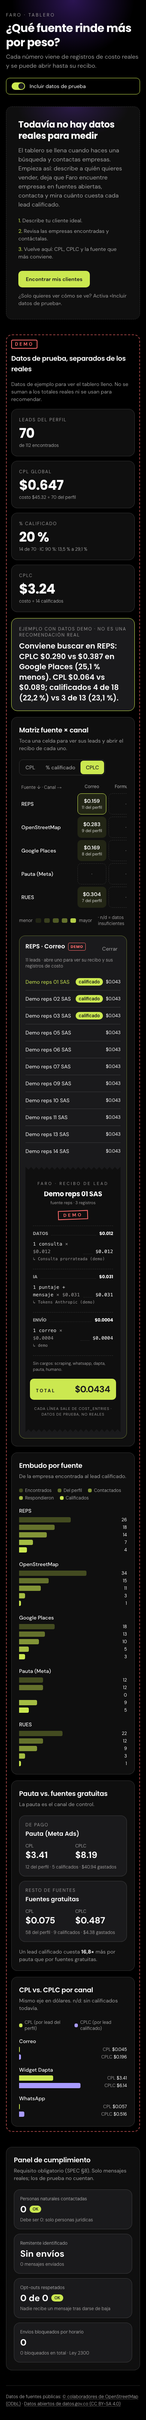
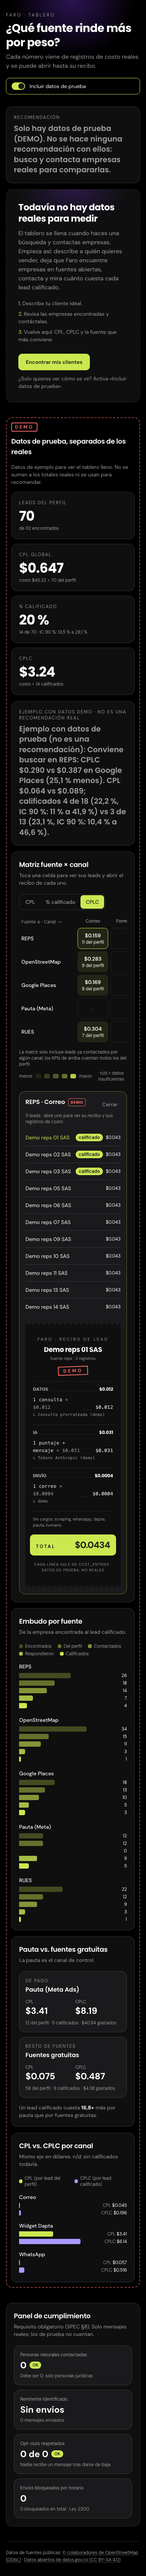
fix(F14): review r1 (real-only cell cost with stamped excluded, DEMO example sentence, min 3 qualified + intervals, batch receipts, a11y)

diff --git a/tests/unit/dashboard.test.ts b/tests/unit/dashboard.test.ts
@@ -1,10 +1,12 @@
 import { describe, expect, it } from "vitest";
 import { betaCredibleInterval } from "@/features/metrics/beta";
 import type { MetricsBucket, MetricsRow } from "@/features/metrics/channels";
+import { buildDemoExample } from "@/features/dashboard/recommendation";
 import { getCellLeads, getDashboardData } from "@/features/dashboard/data";
 import { getDemoDb } from "@/features/dashboard/demo-db";
 import { fmtInterval, fmtPct, fmtUsd } from "@/features/dashboard/format";
 import { buildRecommendation, splitPaidVsFree } from "@/features/dashboard/recommendation";
+import * as s from "@/db/schema";
 import { createTestDb } from "../helpers/test-db";
 
 function row(source: string, fit: number, qualified: number, costUsd: number): MetricsRow {
@@ -30,11 +32,12 @@ function bucket(rows: MetricsRow[]): MetricsBucket {
 
 describe("buildRecommendation", () => {
   it("names a clear winner with CPL/CPLC numbers", () => {
-    const r = buildRecommendation({ real: bucket([row("reps", 20, 5, 4), row("meta_ads", 10, 2, 40), row("osm", 15, 1, 6)]) });
+    const r = buildRecommendation({ real: bucket([row("reps", 20, 5, 4), row("meta_ads", 10, 3, 40), row("osm", 15, 3, 18)]) });
     expect(r.kind).toBe("winner");
     expect(r.sources).toEqual(["reps"]);
     expect(r.text).toContain("Conviene buscar en REPS");
     expect(r.text).toContain("CPLC $0.800 vs $6.00");
+    expect(r.text).toContain("IC 90 %");
   });
   it("reports a technical tie when CPLC is within 10 %", () => {
     const r = buildRecommendation({ real: bucket([row("reps", 20, 5, 4), row("rues", 20, 5, 4.2)]) });
@@ -42,7 +45,7 @@ describe("buildRecommendation", () => {
     expect(r.sources).toHaveLength(2);
   });
   it("says data is insufficient (no qualified, tiny samples, or empty)", () => {
-    for (const rows of [[], [row("reps", 3, 1, 1), row("rues", 2, 0, 1)], [row("reps", 20, 0, 4), row("rues", 20, 0, 4)], [row("reps", 20, 4, 4), row("rues", 20, 0, 4)]]) {
+    for (const rows of [[], [row("reps", 3, 1, 1), row("rues", 2, 0, 1)], [row("reps", 20, 0, 4), row("rues", 20, 0, 4)], [row("reps", 20, 4, 4), row("rues", 20, 0, 4)], [row("reps", 20, 2, 4), row("rues", 20, 2, 8)]]) {
       const r = buildRecommendation({ real: bucket(rows) });
       expect(r.kind).toBe("insufficient");
       expect(r.text).toMatch(/Datos insuficientes/);
@@ -111,5 +114,39 @@ describe("dashboard data", () => {
       expect(l.receipt!.totalUsd).toBeCloseTo(l.costUsd, 5);
     }
     expect((await getCellLeads(db, { source: "reps", contact: "email", demo: false })).total).toBe(0);
+  });
+  it("real cell list excludes mock/demo cost from costUsd and shows it apart", async () => {
+    const conn = await createTestDb();
+    try {
+      const db = conn.db as never as import("@/db/types").AppDb;
+      const [ws] = await db.insert(s.workspaces).values({ name: "W" }).returning();
+      const [icp] = await db.insert(s.icpProfiles).values({ workspaceId: ws.id, prompt: "x", threshold: 60 }).returning();
+      const [hunt] = await db.insert(s.hunts).values({ icpProfileId: icp.id }).returning();
+      const [co] = await db.insert(s.companies).values({ name: "Real SAS", normalizedName: "real" }).returning();
+      const [lead] = await db.insert(s.leads).values({ companyId: co.id, huntId: hunt.id, primarySource: "reps", slug: "real-1", fitScore: 80 }).returning();
+      await db.insert(s.messages).values({ leadId: lead.id, contactChannel: "email", body: "x", status: "sent", sentAt: new Date() });
+      const base = { leadId: lead.id, sourceChannel: "reps" as const, category: "ai" as const, quantity: 1, unit: "u" };
+      await db.insert(s.costEntries).values([
+        { ...base, rate: 0.1, usd: 0.1 },
+        { ...base, rate: 0.05, usd: 0.05, isMock: true },
+      ]);
+      const { leads } = await getCellLeads(db, { source: "reps", contact: "email", demo: false });
+      expect(leads).toHaveLength(1);
+      expect(leads[0].costUsd).toBeCloseTo(0.1, 6);
+      expect(leads[0].excludedUsd).toBeCloseTo(0.05, 6);
+      const m = await getDashboardData(db);
+      expect(m.real.cells[0].costUsd).toBeCloseTo(leads[0].costUsd, 6);
+    } finally {
+      await conn.close();
+    }
+  });
+  it("DEMO section sentence is an explicit example, never a real-format recommendation", async () => {
+    const d = (await getDashboardData(await getDemoDb(), { includeDemo: true })).demo!;
+    const ex = buildDemoExample(d);
+    expect(ex.kind).toBe("demo_example");
+    expect(ex.sources).toEqual([]);
+    expect(ex.text.startsWith("Ejemplo con datos de prueba")).toBe(true);
+    expect(buildRecommendation({ real: d }).kind).toBe("winner"); // same numbers as real would recommend...
+    expect(ex.text).not.toBe(buildRecommendation({ real: d }).text); // ...but never rendered in the real format
   });
 });

diff --git a/src/features/dashboard/data.ts b/src/features/dashboard/data.ts
@@ -1,7 +1,7 @@
 import { sql } from "drizzle-orm";
 import type { AppDb } from "@/db/types";
 import { LEAD_FACTS, getChannelMetrics, type MetricsBucket } from "@/features/metrics/channels";
-import { getLeadReceipt, type LeadReceipt } from "@/features/metrics/receipt";
+import { getLeadReceipts, type LeadReceipt } from "@/features/metrics/receipt";
 import { queryComplianceMetrics, type ComplianceMetrics } from "@/features/compliance/metrics";
 import { getDemoDb } from "./demo-db";
 
@@ -13,21 +13,14 @@ export interface DashboardData {
   compliance: ComplianceMetrics;
 }
 
-const hasData = (b: MetricsBucket | null) => !!b && (b.totals.found > 0 || b.totals.costUsd > 0);
-
 /**
- * The persistent DB may hold seeded demo rows; if it has none, the demo bucket comes from an
- * ephemeral in-memory dataset so the dashboard can be shown full without writing anything.
+ * The DEMO bucket always comes from the built-in in-memory dataset (nothing is written, and rows seeded
+ * in the persistent DB never change what the demo section shows). `real` only reads the persistent DB.
  */
-export async function resolveDemoDb(db: AppDb, persistentDemo: MetricsBucket | null): Promise<AppDb> {
-  return hasData(persistentDemo) ? db : getDemoDb();
-}
-
 export async function getDashboardData(db: AppDb, opts: { includeDemo?: boolean } = {}): Promise<DashboardData> {
-  const m = await getChannelMetrics(db, { includeDemo: !!opts.includeDemo });
-  let demo = m.demo;
-  if (opts.includeDemo && !hasData(demo)) demo = (await getChannelMetrics(await getDemoDb(), { includeDemo: true })).demo;
-  return { real: m.real, demo: opts.includeDemo ? demo : null, compliance: await queryComplianceMetrics(db) };
+  const real = (await getChannelMetrics(db)).real;
+  const demo = opts.includeDemo ? (await getChannelMetrics(await getDemoDb(), { includeDemo: true })).demo : null;
+  return { real, demo, compliance: await queryComplianceMetrics(db) };
 }
 
 export interface CellLead {
@@ -38,7 +31,10 @@ export interface CellLead {
   contacted: boolean;
   responded: boolean;
   qualified: boolean;
+  /** Real world: only non-mock, non-demo entries (matches the cell number). */
   costUsd: number;
+  /** Mock/demo cost on this lead, excluded from `costUsd` and shown apart with a stamp. */
+  excludedUsd: number;
   receipt: LeadReceipt | null;
 }
 
@@ -49,12 +45,15 @@ export async function getCellLeads(db: AppDb, p: { source: string; contact: stri
   const res = (await db.execute(
     sql`${sql.raw(LEAD_FACTS)}
 select lf.id as "leadId", c.name, l.slug, lf.fit, lf.contacted, lf.responded, lf.qualified,
-  (select coalesce(sum(e.usd), 0) from cost_entries e where e.lead_id = lf.id)::float8 as "costUsd"
+  (select coalesce(sum(e.usd) filter (where ${p.demo}::boolean or not (e.is_mock or e.is_demo)), 0) from cost_entries e where e.lead_id = lf.id)::float8 as "costUsd",
+  (select coalesce(sum(e.usd) filter (where not ${p.demo}::boolean and (e.is_mock or e.is_demo)), 0) from cost_entries e where e.lead_id = lf.id)::float8 as "excludedUsd"
 from lf join leads l on l.id = lf.id join companies c on c.id = l.company_id
 where lf.src = ${p.source} and lf.demo = ${p.demo} and (${p.contact}::text is null or lf.ch = ${p.contact})
 order by lf.qualified desc, lf.fit desc, c.name`,
   )) as unknown as Omit<CellLead, "receipt">[] | { rows: Omit<CellLead, "receipt">[] };
   const all = Array.isArray(res) ? res : res.rows;
-  const leads = await Promise.all(all.slice(0, CELL_LIMIT).map(async (r) => ({ ...r, receipt: await getLeadReceipt(db, r.leadId) })));
+  const shown = all.slice(0, CELL_LIMIT);
+  const receipts = await getLeadReceipts(db, shown.map((r) => r.leadId));
+  const leads = shown.map((r) => ({ ...r, receipt: receipts.get(r.leadId) ?? null }));
   return { total: all.length, leads };
 }

diff --git a/src/components/dashboard/matrix-panel.tsx b/src/components/dashboard/matrix-panel.tsx
@@ -27,7 +27,7 @@ const STEPS = [
 function value(r: MetricsRow, m: Metric): number | null {
   if (m === "cpl") return r.cpl;
   if (m === "cplc") return r.cplc;
-  return r.fit > 0 ? r.qualified / r.fit : null;
+  return r.qualifiedRate.n > 0 ? r.qualifiedRate.k / r.qualifiedRate.n : null;
 }
 
 interface Sel {
@@ -86,7 +86,7 @@ export function MatrixPanel({ bucket, demo }: { bucket: MetricsBucket; demo: boo
         ))}
       </div>
 
-      <div className="overflow-x-auto" tabIndex={0} aria-label="Matriz fuente por canal de contacto">
+      <div className="overflow-x-auto" role="region" tabIndex={0} aria-label="Matriz fuente por canal de contacto">
         <table className="w-full min-w-[560px] border-separate border-spacing-1.5 text-sm">
           <thead>
             <tr>
@@ -132,7 +132,7 @@ export function MatrixPanel({ bucket, demo }: { bucket: MetricsBucket; demo: boo
                         style={st ? { background: st.bg, color: st.fg } : undefined}
                       >
                         <span className="font-semibold tabular-nums">{text}</span>
-                        <span className="text-[11px] opacity-80">{c.fit} del perfil</span>
+                        <span className="text-xs">{c.fit} del perfil</span>
                       </button>
                     </td>
                   );
@@ -143,7 +143,8 @@ export function MatrixPanel({ bucket, demo }: { bucket: MetricsBucket; demo: boo
         </table>
       </div>
 
-      <div className="mt-3 flex items-center gap-2 text-xs text-faro-text-3" aria-hidden>
+      <p className="mt-3 text-xs text-faro-text-2">La matriz solo incluye leads ya contactados por algún canal; los KPIs de arriba cuentan todos los del perfil.</p>
+      <div className="mt-2 flex items-center gap-2 text-xs text-faro-text-3" aria-hidden>
         <span>menor</span>
         {STEPS.map((s, i) => (
           <span key={i} className="h-3 w-7 rounded-sm" style={{ background: s.bg }} />
@@ -183,6 +184,11 @@ export function MatrixPanel({ bucket, demo }: { bucket: MetricsBucket; demo: boo
                       <span className="flex shrink-0 items-center gap-2 text-xs text-faro-text-2">
                         {l.qualified && <span className="rounded-full bg-faro-accent px-2 py-0.5 font-semibold text-[#1a1a1c]">calificado</span>}
                         {!l.fit && <span>fuera del perfil</span>}
+                        {l.excludedUsd > 0 && (
+                          <span className="rounded border border-destructive px-1 text-[10px] font-bold tracking-wider text-destructive" title="Costo mock/demo excluido de la celda">
+                            MOCK {fmtUsd(l.excludedUsd)}
+                          </span>
+                        )}
                         <span className="tabular-nums text-white">{fmtUsd(l.costUsd)}</span>
                       </span>
                     </button>

diff --git a/src/features/dashboard/recommendation.ts b/src/features/dashboard/recommendation.ts
@@ -1,13 +1,13 @@
 import type { ChannelMetrics, MetricsBucket, MetricsRow } from "@/features/metrics/channels";
-import { fmtInt, fmtPct, fmtUsd, sourceLabel } from "./format";
+import { fmtInt, fmtInterval, fmtPct, fmtUsd, sourceLabel } from "./format";
 
 /** Minimum sample per source to be comparable: profile leads and qualified leads. */
 export const MIN_FIT = 5;
-export const MIN_QUALIFIED = 1;
+export const MIN_QUALIFIED = 3;
 /** CPLC gap (relative to the best) under which two sources are a technical tie. */
 export const TIE_GAP = 0.1;
 
-export type RecommendationKind = "winner" | "tie" | "insufficient" | "demo_only";
+export type RecommendationKind = "winner" | "tie" | "insufficient" | "demo_only" | "demo_example";
 
 export interface Recommendation {
   kind: RecommendationKind;
@@ -48,7 +48,7 @@ export function buildRecommendation(metrics: Pick<ChannelMetrics, "real"> & { de
   const bestC = best.cplc as number;
   const secondC = second.cplc as number;
   const gap = (secondC - bestC) / secondC; // how much cheaper the best is vs the runner-up
-  const rate = (r: MetricsRow) => `${r.qualified} de ${r.fit} (${fmtPct(r.qualified / r.fit)})`;
+  const rate = (r: MetricsRow) => `${r.qualifiedRate.k} de ${r.qualifiedRate.n} (${fmtPct(r.qualifiedRate.k / r.qualifiedRate.n)}, ${fmtInterval(r.qualifiedRate)})`;
 
   if ((secondC - bestC) / bestC < TIE_GAP) {
     return {
@@ -78,4 +78,10 @@ export function splitPaidVsFree(bySource: MetricsRow[]): PaidVsFree {
   const qualified = rest.reduce((a, r) => a + r.qualified, 0);
   const costUsd = rest.reduce((a, r) => a + r.costUsd, 0);
   return { paid, free: { fit, qualified, costUsd, cpl: fit > 0 ? costUsd / fit : null, cplc: qualified > 0 ? costUsd / qualified : null } };
+}
+
+/** DEMO section sentence: explicitly an example, never in the format of a real recommendation. */
+export function buildDemoExample(demo: MetricsBucket): Recommendation {
+  const r = buildRecommendation({ real: demo });
+  return { kind: "demo_example", sources: [], text: `Ejemplo con datos de prueba (no es una recomendación): ${r.text}` };
 }

diff --git a/src/features/metrics/receipt.ts b/src/features/metrics/receipt.ts
@@ -1,4 +1,4 @@
-import { asc, eq } from "drizzle-orm";
+import { asc, eq, inArray } from "drizzle-orm";
 import * as s from "@/db/schema";
 import type { AppDb, CostCategory } from "@/db/types";
 import { round6 } from "./costs";
@@ -55,15 +55,27 @@ export interface LeadReceipt {
 
 /** Itemized cost of one lead. `totalUsd` equals the sum of the lead's `cost_entries`. Null if the lead does not exist. */
 export async function getLeadReceipt(db: AppDb, leadId: string): Promise<LeadReceipt | null> {
-  const [lead] = await db
+  return (await getLeadReceipts(db, [leadId])).get(leadId) ?? null;
+}
+
+/** Receipts for many leads in two queries (no per-lead round trips). */
+export async function getLeadReceipts(db: AppDb, leadIds: string[]): Promise<Map<string, LeadReceipt>> {
+  const out = new Map<string, LeadReceipt>();
+  if (leadIds.length === 0) return out;
+  const leadRows = await db
     .select({ id: s.leads.id, slug: s.leads.slug, source: s.leads.primarySource, isDemo: s.leads.isDemo, name: s.companies.name })
     .from(s.leads)
     .innerJoin(s.companies, eq(s.companies.id, s.leads.companyId))
-    .where(eq(s.leads.id, leadId));
-  if (!lead) return null;
+    .where(inArray(s.leads.id, leadIds));
+  const entries = await db.select().from(s.costEntries).where(inArray(s.costEntries.leadId, leadIds)).orderBy(asc(s.costEntries.at), asc(s.costEntries.id));
+  for (const lead of leadRows) out.set(lead.id, buildReceipt(lead, entries.filter((e) => e.leadId === lead.id)));
+  return out;
+}
 
-  const rows = await db.select().from(s.costEntries).where(eq(s.costEntries.leadId, leadId)).orderBy(asc(s.costEntries.at), asc(s.costEntries.id));
-
+function buildReceipt(
+  lead: { id: string; slug: string; source: string; isDemo: boolean; name: string },
+  rows: (typeof s.costEntries.$inferSelect)[],
+): LeadReceipt {
   const byCat = new Map<CostCategory, ReceiptLine[]>();
   for (const r of rows) {
     const listUsd = round6(r.quantity * r.rate);

diff --git a/src/components/dashboard/dashboard-body.tsx b/src/components/dashboard/dashboard-body.tsx
@@ -1,15 +1,24 @@
-import { buildRecommendation } from "@/features/dashboard/recommendation";
+import { buildDemoExample, buildRecommendation } from "@/features/dashboard/recommendation";
 import { fmtUsd } from "@/features/dashboard/format";
 import type { MetricsBucket } from "@/features/metrics/channels";
 import { MatrixPanel } from "./matrix-panel";
 import { CplBars, EmptyState, Funnel, KpiRow, PaidVsFree, Panel, RecommendationCard } from "./panels";
 
 /** All charts for one world. `demo` buckets are labelled DEMO and never summed into the real ones. */
-export function DashboardBody({ bucket, demo = false }: { bucket: MetricsBucket; demo?: boolean }) {
+export function DashboardBody({ bucket, demo = false, demoBucket = null }: { bucket: MetricsBucket; demo?: boolean; demoBucket?: MetricsBucket | null }) {
   const p = demo ? "d" : "r";
   const empty = bucket.totals.found === 0 && bucket.totals.costUsd === 0;
-  if (empty) return demo ? null : <EmptyState />;
-  const rec = buildRecommendation({ real: bucket });
+  if (empty) {
+    if (demo) return null;
+    const only = buildRecommendation({ real: bucket, demo: demoBucket });
+    return (
+      <div className="space-y-4">
+        {only.kind === "demo_only" && <RecommendationCard rec={only} />}
+        <EmptyState />
+      </div>
+    );
+  }
+  const rec = demo ? buildDemoExample(bucket) : buildRecommendation({ real: bucket });
   return (
     <div className="space-y-4">
       {!demo && (bucket.excludedMockUsd > 0 || bucket.excludedDemoUsd > 0) && (

diff --git a/src/components/dashboard/panels.tsx b/src/components/dashboard/panels.tsx
@@ -27,7 +27,8 @@ function Kpi({ label, value, note, empty }: { label: string; value: string; note
 
 export function KpiRow({ bucket }: { bucket: MetricsBucket }) {
   const t = bucket.totals;
-  const rate = t.fit > 0 ? t.qualified / t.fit : null;
+  const q = t.qualifiedRate;
+  const rate = q.n > 0 ? q.k / q.n : null;
   return (
     <div className="grid gap-3 sm:grid-cols-2 xl:grid-cols-4">
       <Kpi label="Leads del perfil" value={fmtInt(t.fit)} note={`de ${fmtInt(t.found)} encontrados`} />
@@ -36,7 +37,7 @@ export function KpiRow({ bucket }: { bucket: MetricsBucket }) {
         label="% calificado"
         value={rate === null ? INSUFFICIENT : fmtPct(rate)}
         empty={rate === null}
-        note={t.fit > 0 ? `${t.qualified} de ${t.fit} · ${fmtInterval(t.qualifiedRate)}` : "aún sin leads del perfil"}
+        note={q.n > 0 ? `${q.k} de ${q.n} · ${fmtInterval(q)}` : "aún sin leads del perfil"}
       />
       <Kpi label="CPLC" value={t.cplc === null ? INSUFFICIENT : fmtUsd(t.cplc)} empty={t.cplc === null} note={t.cplc === null ? "ningún lead calificado todavía" : `costo ÷ ${t.qualified} calificados`} />
     </div>

diff --git a/src/app/api/dashboard/cell/route.ts b/src/app/api/dashboard/cell/route.ts
@@ -1,7 +1,7 @@
 import { NextResponse } from "next/server";
 import { z } from "zod";
-import { getCellLeads, resolveDemoDb } from "@/features/dashboard/data";
-import { getChannelMetrics } from "@/features/metrics/channels";
+import { getCellLeads } from "@/features/dashboard/data";
+import { getDemoDb } from "@/features/dashboard/demo-db";
 import { requireAppAccess } from "@/lib/app-access";
 import { withDb } from "@/lib/with-db";
 
@@ -21,11 +21,7 @@ export async function GET(req: Request) {
   if (!parsed.success) return NextResponse.json({ error: "Parámetros inválidos" }, { status: 400 });
   const { source, contact, demo } = parsed.data;
   return withDb(async (db) => {
-    let target = db;
-    if (demo === "1") {
-      const persistent = (await getChannelMetrics(db, { includeDemo: true })).demo;
-      target = await resolveDemoDb(db, persistent);
-    }
+    const target = demo === "1" ? await getDemoDb() : db;
     return NextResponse.json(await getCellLeads(target, { source, contact: contact ?? null, demo: demo === "1" }));
   });
 }

diff --git a/tests/e2e/dashboard.spec.ts b/tests/e2e/dashboard.spec.ts
@@ -20,7 +20,7 @@ test("dashboard: empty real state, then demo toggle shows separated DEMO data", 
   await page.getByRole("switch", { name: /Incluir datos de prueba/ }).click();
   await page.waitForURL(/demo=1/);
   await expect(page.getByRole("region", { name: /Datos de prueba/ })).toBeVisible();
-  await expect(page.getByRole("complementary", { name: "Recomendación" })).toContainText("Conviene buscar en");
+  await expect(page.getByRole("region", { name: /Datos de prueba/ }).getByRole("complementary", { name: "Recomendación" })).toContainText("Ejemplo con datos de prueba");
   await expect(page.getByText("Pauta vs. fuentes gratuitas")).toBeVisible();
 
   // heatmap cell -> leads -> receipt

diff --git a/src/app/app/dashboard/page.tsx b/src/app/app/dashboard/page.tsx
@@ -40,7 +40,7 @@ export default async function DashboardPage({ searchParams }: { searchParams: Pr
 
         <div className="mt-8 space-y-10">
           <section aria-label="Datos reales">
-            <DashboardBody bucket={data.real} />
+            <DashboardBody bucket={data.real} demoBucket={data.demo} />
           </section>
 
           {data.demo && (
